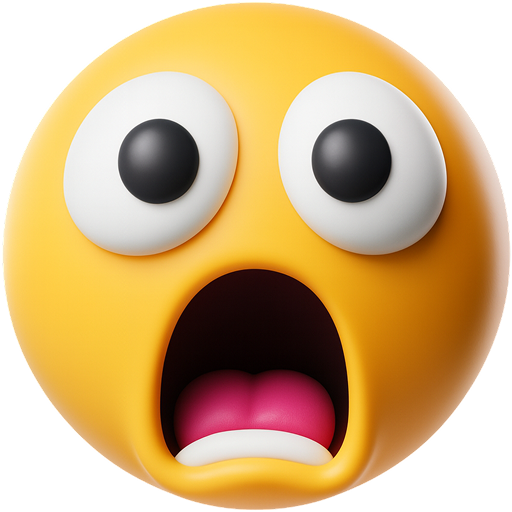
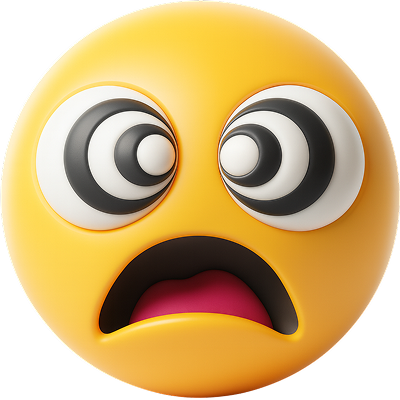
✨ 안전모드 관용어 수정, 리뉴얼된 이모지로 업로드

diff --git a/supabase/functions/checkin-py/srj5_constants.py b/supabase/functions/checkin-py/srj5_constants.py
@@ -43,8 +43,8 @@ SAFETY_REGEX = [
 ]
 
 SAFETY_FIGURATIVE = [
-    r"(배고파|배불러|졸려|피곤해|더워|추워|힘들|아파)\s*죽겠",
-    r"(좋아|웃겨|귀여워|보고싶어|궁금해)\s*죽겠",
+    r"(배고파|배불러|졸려|피곤해|더워|추워|힘들|아파)\s*죽",
+    r"(좋아|웃겨|귀여워|보고싶어|궁금해)\s*죽",
 ]
 
 SAFETY_LEMMAS = [
